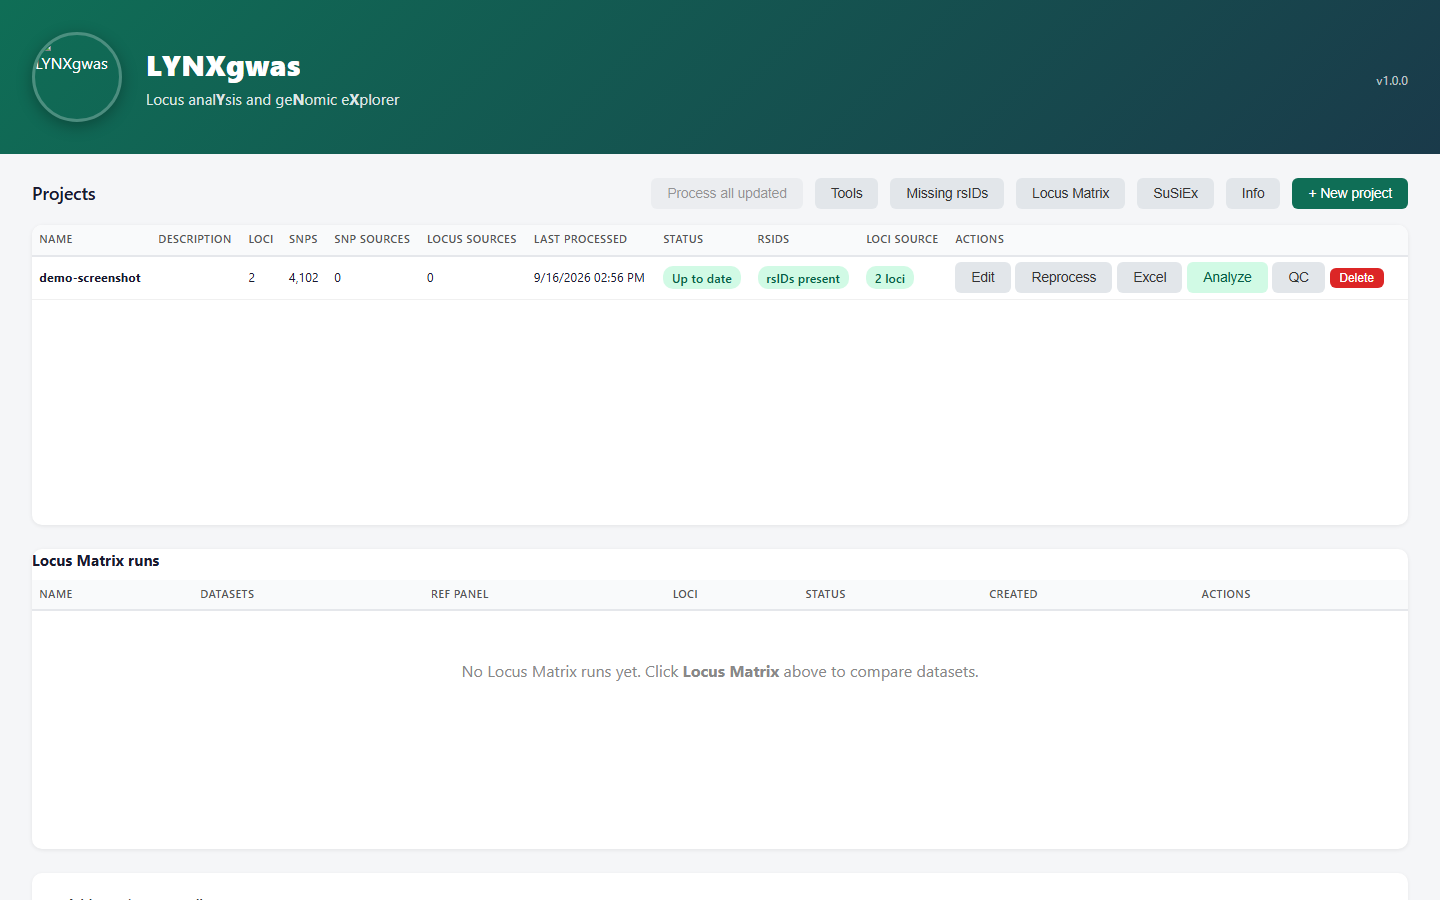
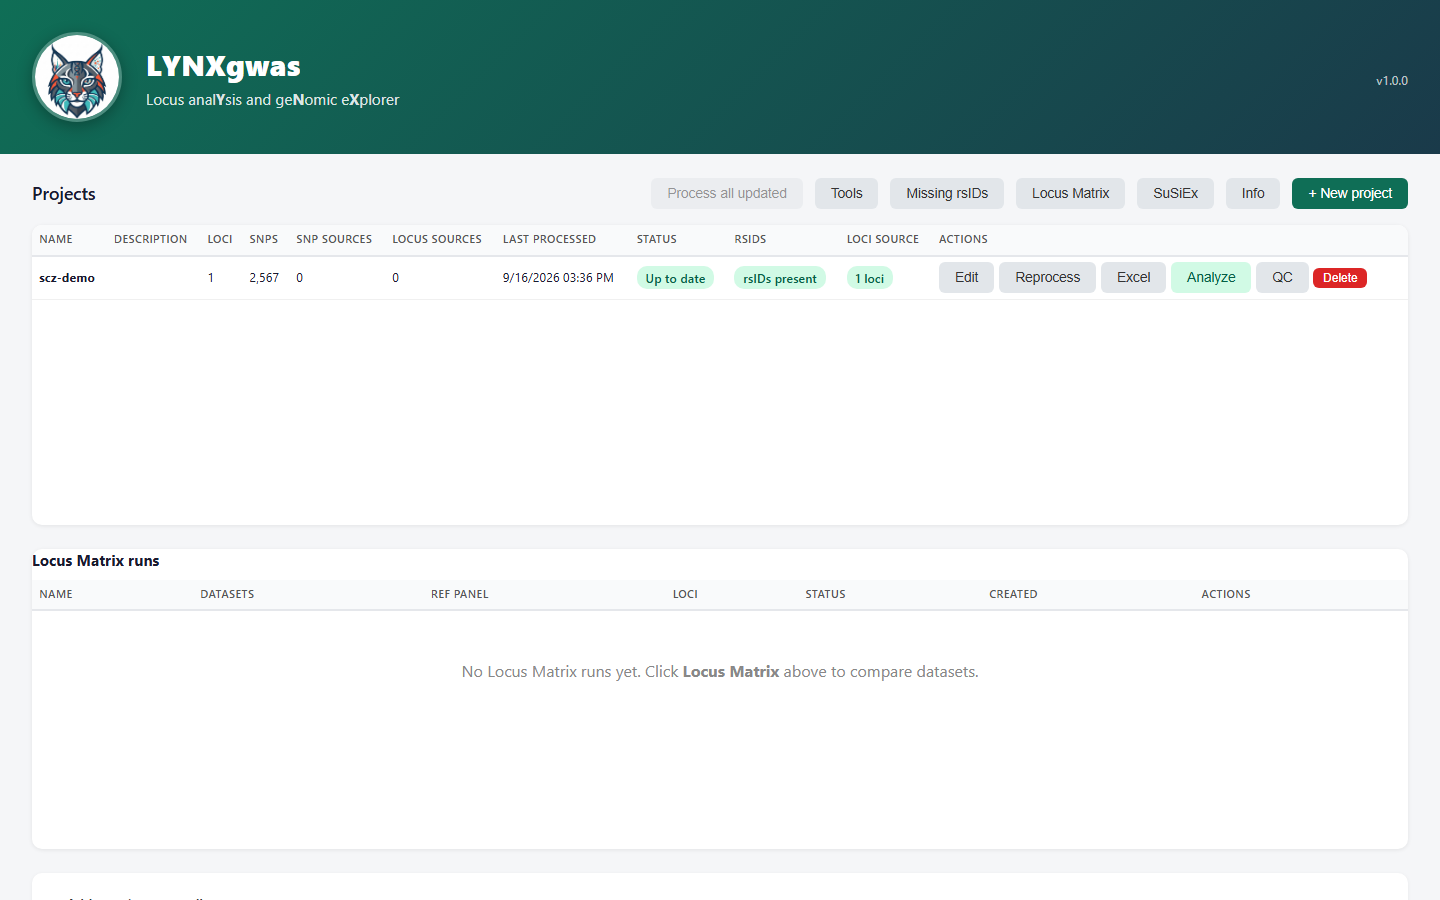
Replace synthetic demo screenshots with real PGC3 schizophrenia GWAS data
Uses the public PGC3 schizophrenia GWAS (Trubetskoy et al. 2022, Nature)
at the CACNA1C locus, with LD from 1000 Genomes Phase 3 EUR and gene
annotation from GENCODE - real SNPs, real gene names, real LD structure
instead of the earlier synthetic placeholder data. Screenshots are linked
from README via raw.githubusercontent.com URLs, so no PyPI republish is
needed for this change.

Changed region(s): [[0.0938, 0.2489, 0.9688, 0.3422], [0.0, 0.0311, 0.0938, 0.1556], [0.0312, 0.28, 0.0938, 0.3111]]

diff --git a/README.md b/README.md
@@ -36,6 +36,11 @@ projects at once.
 
 ![LYNXgwas locus viewer](https://raw.githubusercontent.com/AlsammanAlsamman/LYNXgwas/main/assets/screenshots/viewer.png)
 
+*Screenshots use real public data: the [PGC3 schizophrenia GWAS](https://doi.org/10.6084/m9.figshare.19426775)
+(Trubetskoy et al. 2022, [Nature](https://doi.org/10.1038/s41586-022-04434-5)) at the well-known
+CACNA1C locus (lead SNP rs2238057, p=8.5×10⁻²²), with LD from the 1000 Genomes Phase 3 EUR panel
+and gene annotation from GENCODE.*
+
 ## Install
 
 ```bash
